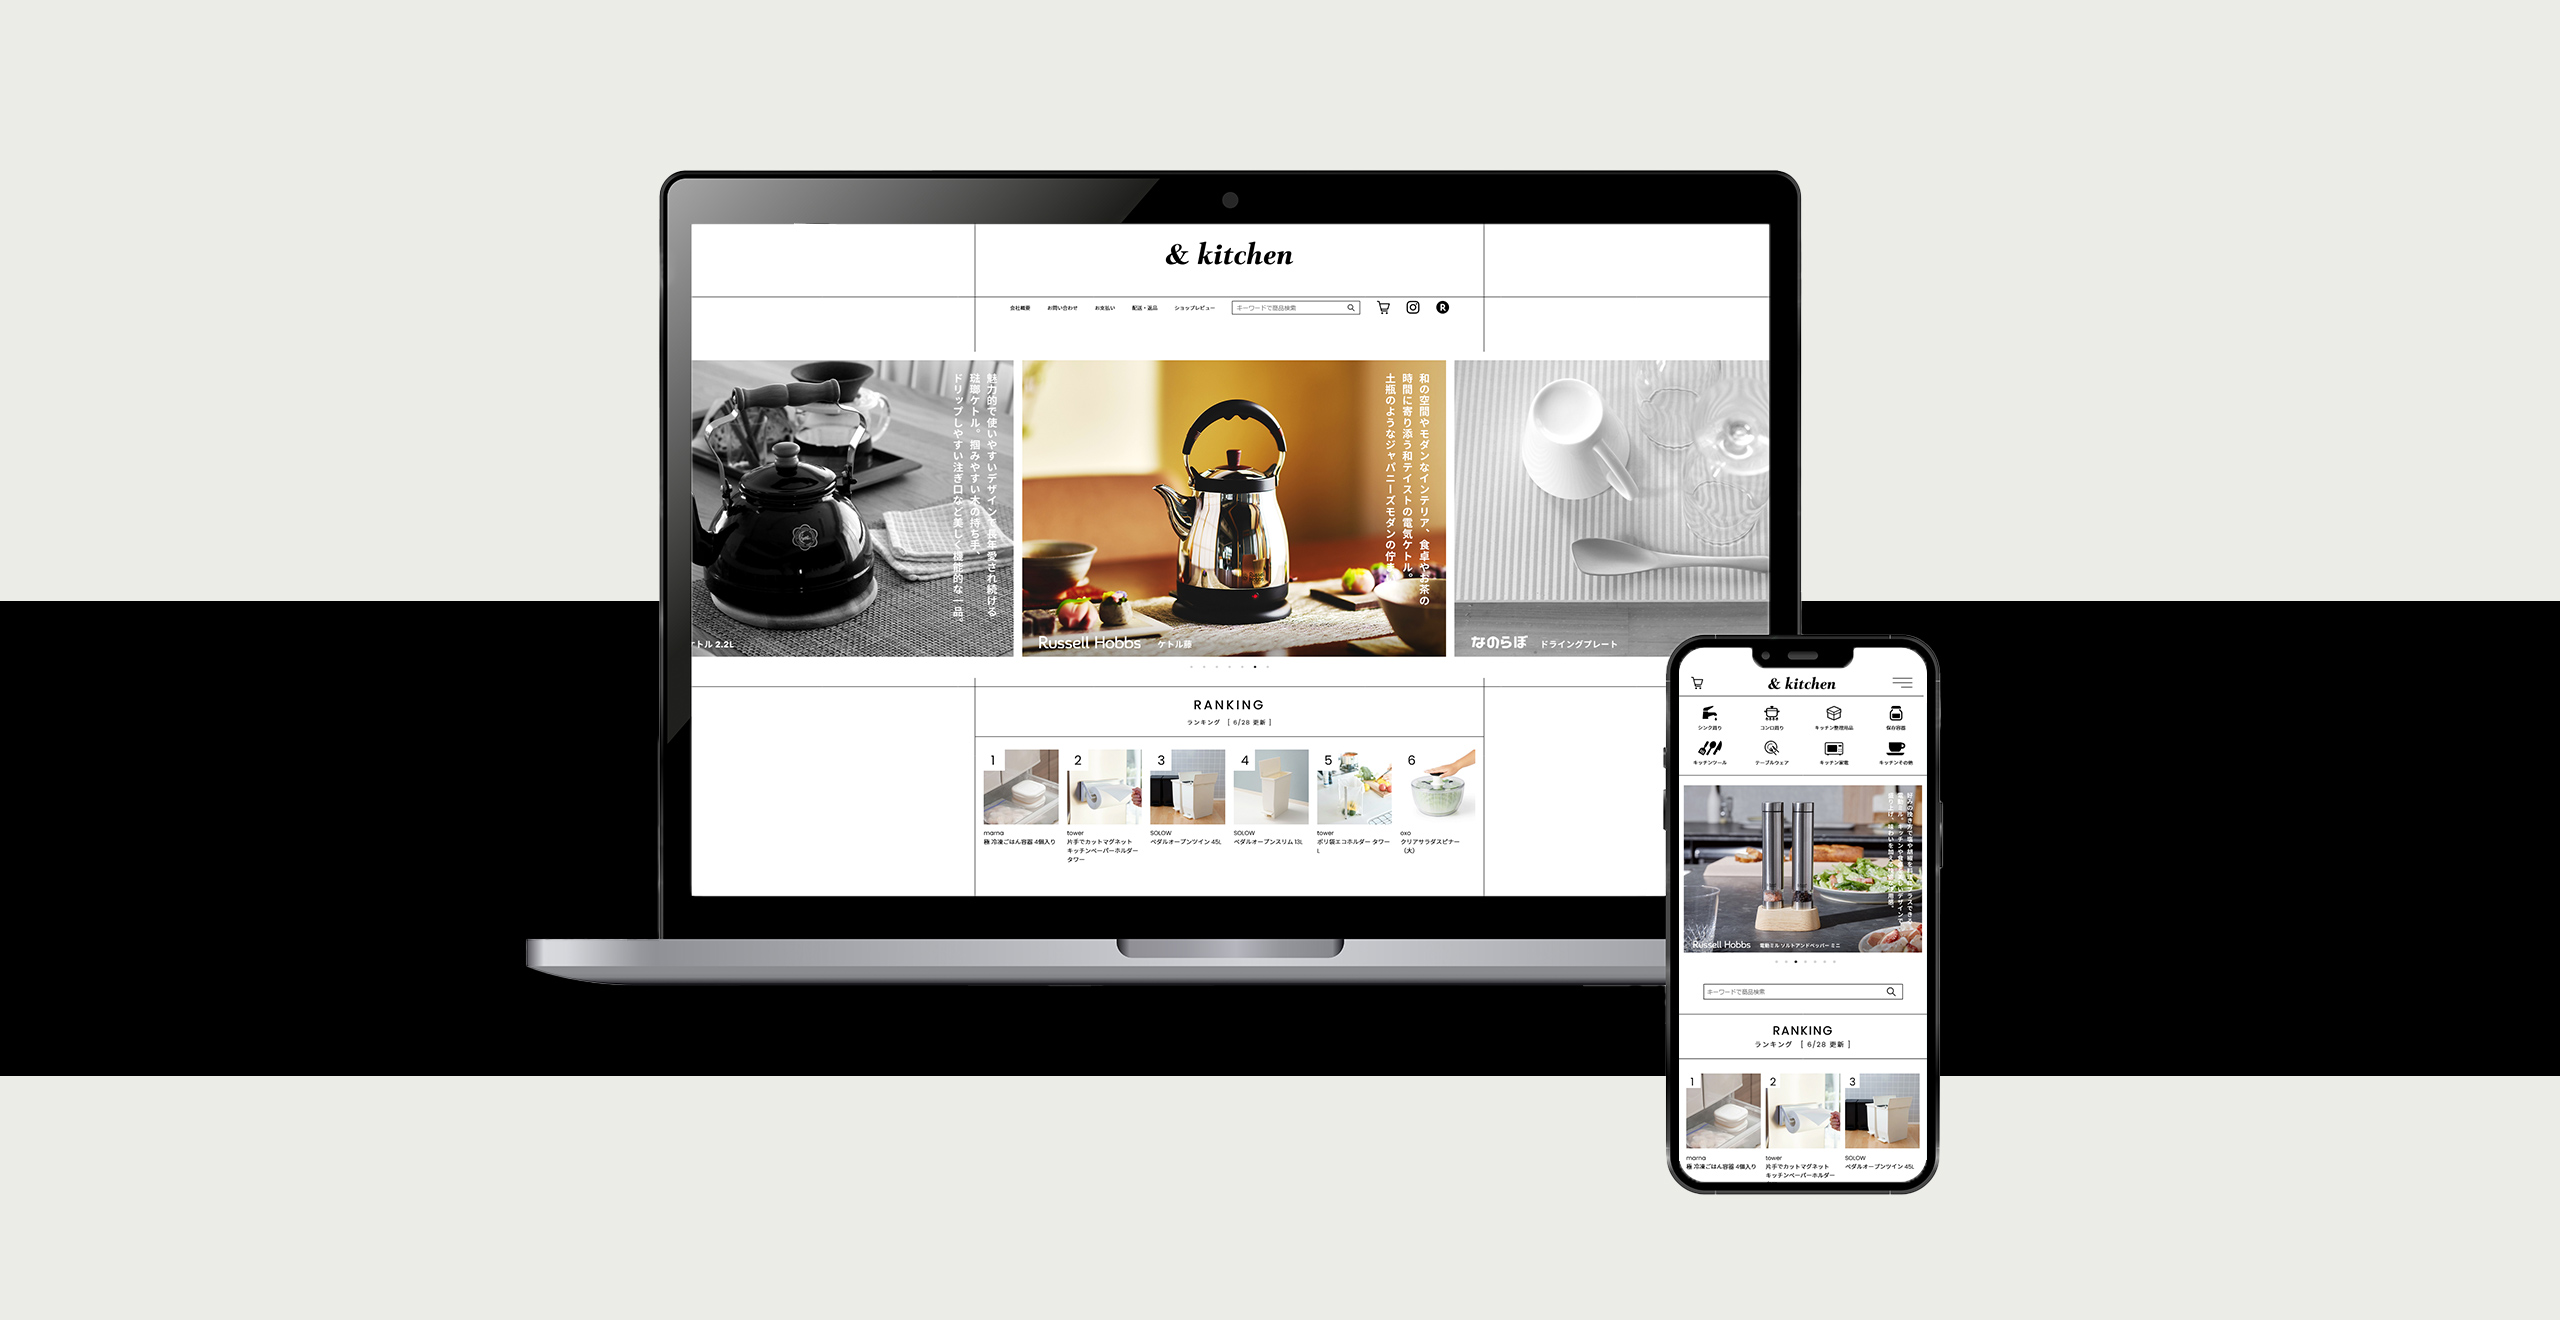
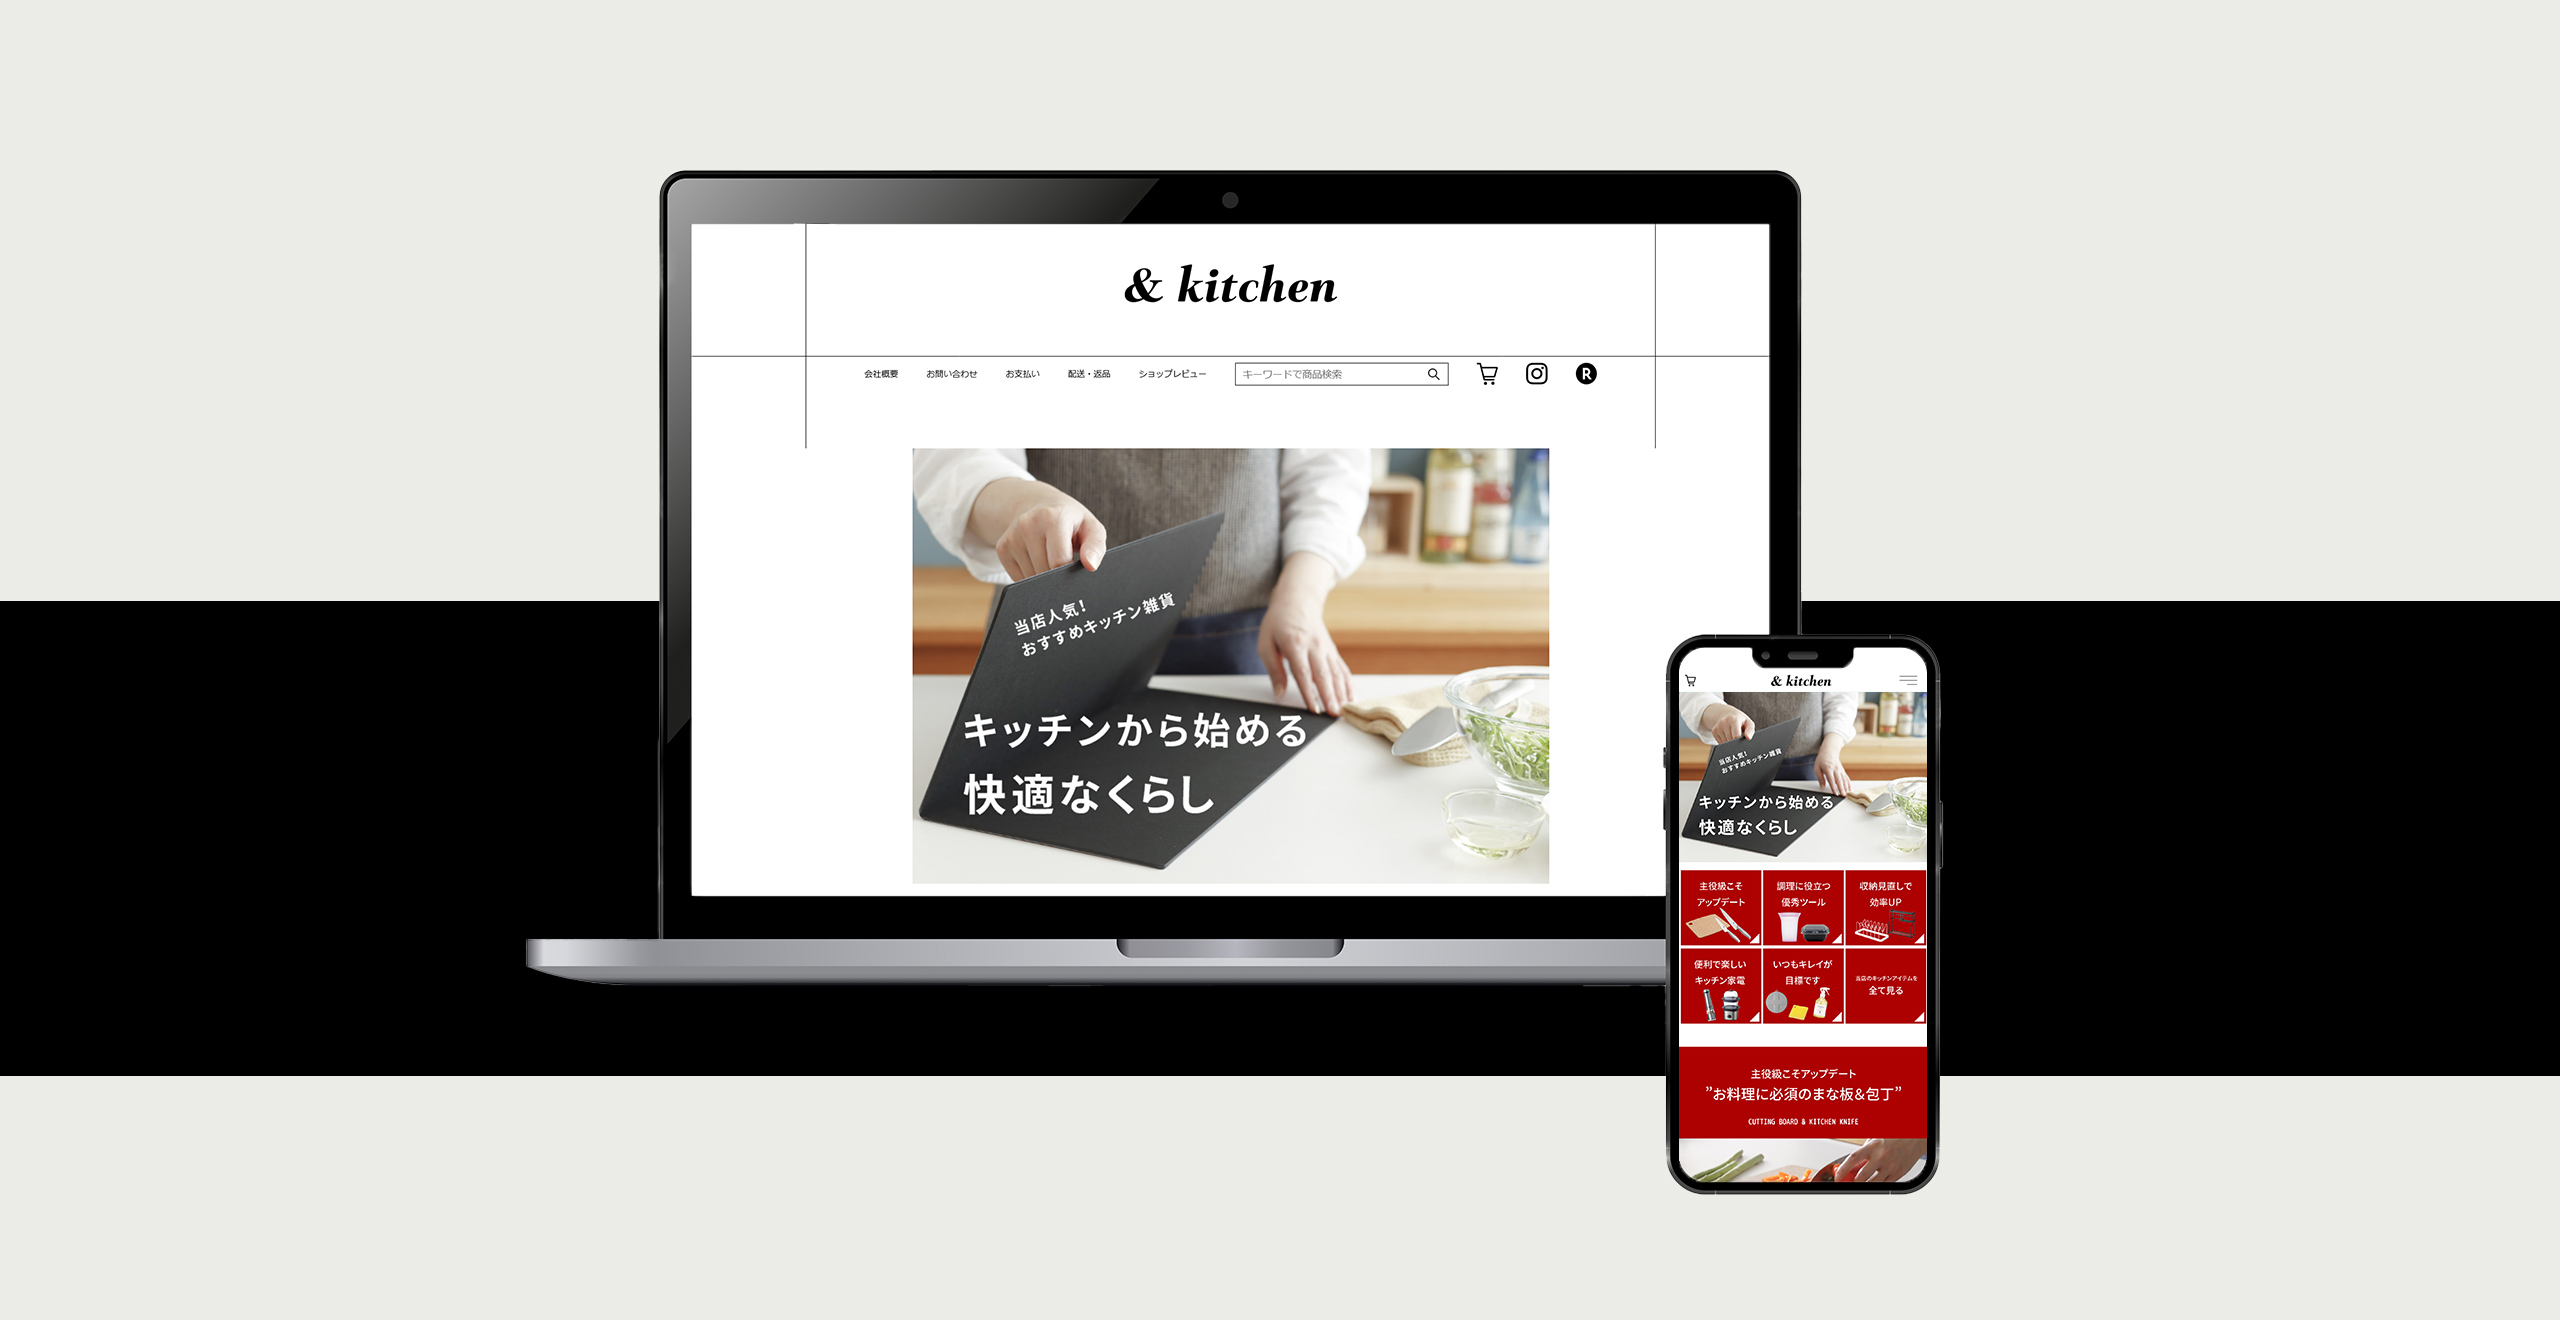
dd

Changed region(s): [[0.25, 0.1864, 0.75, 0.9008]]

diff --git a/top/index.html b/top/index.html
@@ -23,7 +23,8 @@
     <link rel="stylesheet" href="https://unpkg.com/ress/dist/ress.min.css">
 
     <!--↓動くcss-->
-    <link rel="stylesheet" type="text/css" href="http://coco-factory.jp/ugokuweb/wp-content/themes/ugokuweb/data/move02/8-1/css/reset.css">
+    <link rel="stylesheet" type="text/css"
+        href="http://coco-factory.jp/ugokuweb/wp-content/themes/ugokuweb/data/move02/8-1/css/reset.css">
     <!--↓独自css-->
     <link rel="stylesheet" href="css/style.css">
 
@@ -47,11 +48,13 @@
         <!---------- Skills ---------->
         <div id="skills wrapper">
             <div class="skills-p">
-                <h1 class="TextRandomAnime">Top Page</h1>
-                <h2>自社新店舗のトップページデザイン</h2>
+                <h1 class="TextRandomAnime">Special Feature </h1>
+                <h2>自社新店舗の特集ページデザイン・設計</h2>
                 <div class="parent">
                     <div class="child">
-                        <p class="child_p"><b>概要</b><br>20代後半主婦をメインターゲットにしたキッチン雑貨のセレクトショップ「アンドキッチン」のトップページデザインを担当。(自社運営の新店舗)<br><br><a href="https://www.rakuten.ne.jp/gold/andkitchen/" target="_blank">https://www.rakuten.ne.jp/gold/andkitchen/</a>
+                        <p class="child_p"><b>概要</b><br>自社の運営店舗「＆kitchen」の特集ページのデザイン、編集を担当。<br><br><a
+                                href="https://www.rakuten.ne.jp/gold/andkitchen/"
+                                target="_blank">https://www.rakuten.ne.jp/gold/andkitchen/</a>
                         </p>
                     </div>
                     <div class="child">
@@ -60,12 +63,13 @@
                             <b>制作環境</b><br>
                             Photoshop<br>
                             <b>担当した箇所</b><br>
-                            トップページデザイン、スライダー画像、特集ページのサムネイル画像(先輩デザイナーと共同)<br></p>
+                            特集サムネイル画像の制作、ページ内デザイン、ページ内の文章制作、新商品追加など編集業務<br>
+                        </p>
                     </div>
                 </div>
             </div>
             <div class="skills-img">
-                <img src="imgs/landhig_02-2.jpg" >
+                <img src="imgs/landhig_02-2.jpg">
             </div>
         </div>
 
@@ -75,23 +79,25 @@
             <div class="works__innner ">
                 <figure class="works__fig">
                     <img src="imgs/gole.png" alt="" width="50%">
-                    <p><b>目的</b><br>既に運営しているキッチン雑貨のセレクトショップ「kitchenroom」とは違った年齢層の顧客を増やすため、より洗練されたスタイリッシュなショップという印象付けができるようなデザインを目指した。
+                    <p><b>目的</b><br>カテゴリーごとにキッチン雑貨を集めた特集ページを制作し、自社ページ内でお客様にいろいろな商品を見比べていただけるようにする。
                     </p>
                 </figure>
 
                 <figure class="works__fig">
                     <img src="imgs/shop.png" alt="" width="50%">
-                    <p><b>コンセプト</b><br>インスタ映えするようなおしゃれでより洗練されたキッチン雑貨が見つかるセレクトショップ。</p>
+                    <p><b>コンセプト</b><br>同系統の商品を一覧で見比べることができるページ。</p>
                 </figure>
 
                 <figure class="works__fig">
                     <img src="imgs/woman.png" alt="" width="50%">
-                    <p><b>ペルソナ</b><br>34歳女性<br>会社勤め/夫と二人暮らし<br>趣味はおかし作り。おしゃれでインスタ映えするようなキッチンの雑貨を探すときに利用する。</p>
+                    <p><b>ペルソナ</b><br>40歳女性<br>
+                        会社勤め/夫、子供と三人暮らし
+                        新しく引っ越しをするに際して、キッチン、バスルーム、リビングルームの雑貨を新調したい。
+                    </p>
                 </figure>
 
-                <p>自社で運営している楽天内のショップである「くらしのもり」「kitchenroom」「bathroom」に引き続き、新店舗である「＆kitchen」が増設されるにあたり、先輩デザイナーと2人でデザインを担当。<br>
-                    より洗練されたおしゃれな暮らしを提供するセレクトショップということで、スタイリッシュでミニマルなデザインを目指しました。
-                    実際に運営されるページのトップデザインを手掛けたのはこれが初めてだったので、戸惑いつつも先輩デザイナーにたくさんの助言を頂き、納得のいく形に仕上げることができました。</p>
+                <p>自社で運営している楽天内のショップである「＆kitchen」の「FEATURE(特集ページ)」のデザイン、設計を担当。<br>「キッチンからはじめる快適なくらし」、「種類豊富な保存容器 」、「ゴミ箱にもこだわりを」などをはじめ、季節ごとに「梅雨特集」「加湿器特集」など快適な生活を支える雑貨を紹介し、お客様に自分に合ったアイテムを見比べて発見していただけるようなわかりやすいページを目指しました。
+                    </p>
             </div><!-- works__innner -->
         </div><!-- works -->
 
@@ -104,20 +110,26 @@
         <div class="nabigation">
             <nav>
                 <ui class="headerul">
-                    <li ><a href="../index.html"><img src="../img/back.png" alt="" width="80px
-                        "><p style="padding: 0;">トップページへ</p></a></li>
-                    <li ><a href="#top"><img src="../img/top.png" alt="" width="80px
-                        "><p style="padding: 0;">上へ戻る</p></a></li>
+                    <li><a href="../index.html"><img src="../img/back.png" alt="" width="80px
+                        ">
+                            <p style="padding: 0;">トップページへ</p>
+                        </a></li>
+                    <li><a href="#top"><img src="../img/top.png" alt="" width="80px
+                        ">
+                            <p style="padding: 0;">上へ戻る</p>
+                        </a></li>
                 </ui>
             </nav>
         </div>
-        
+
     </footer>
 
-    <script src="https://code.jquery.com/jquery-3.4.1.min.js" integrity="sha256-CSXorXvZcTkaix6Yvo6HppcZGetbYMGWSFlBw8HfCJo=" crossorigin="anonymous"></script>
+    <script src="https://code.jquery.com/jquery-3.4.1.min.js"
+        integrity="sha256-CSXorXvZcTkaix6Yvo6HppcZGetbYMGWSFlBw8HfCJo=" crossorigin="anonymous"></script>
     <script src="http://coco-factory.jp/ugokuweb/wp-content/themes/ugokuweb/data/move02/8-1/js/8-1.js"></script>
 
-    <script src="https://code.jquery.com/jquery-3.4.1.min.js" integrity="sha256-CSXorXvZcTkaix6Yvo6HppcZGetbYMGWSFlBw8HfCJo=" crossorigin="anonymous"></script>
+    <script src="https://code.jquery.com/jquery-3.4.1.min.js"
+        integrity="sha256-CSXorXvZcTkaix6Yvo6HppcZGetbYMGWSFlBw8HfCJo=" crossorigin="anonymous"></script>
     <script src="https://cdnjs.cloudflare.com/ajax/libs/Chart.js/2.8.0/Chart.min.js"></script>
     <script src="https://cdnjs.cloudflare.com/ajax/libs/protonet-jquery.inview/1.1.2/jquery.inview.min.js"></script>
 

diff --git a/index.html b/index.html
@@ -60,11 +60,11 @@
                     </a>
                     <table>
                         <tr>
-                            <th colspan="2">自社ECサイトトップページ</th>
+                            <th colspan="2">自社ECサイト特集ページ</th>
                         </tr>
                         <tr>
                             <td width="30%">制作した箇所</td>
-                            <td>トップページのデザイン(先輩デザインと共同)</td>
+                            <td>特集ページのデザイン・編集</td>
                         </tr>
                         <tr>
                             <td>使用ソフト</td>
@@ -72,7 +72,7 @@
                         </tr>
                         <tr>
                             <td>制作時間</td>
-                            <td>約1か月程度</td>
+                            <td>約2週間程度</td>
                         </tr>
                     </table>
                 </figure>
@@ -191,7 +191,7 @@
                 </tr>
                 <tr>
                     <td>制作時間</td>
-                    <td>約3～4日/1画像</td>
+                    <td>約5～6日/1画像</td>
                 </tr>
             </table>
         </div>
@@ -275,11 +275,6 @@
                         </div>
                     </div>
                 </div>
-                <p class="p_sime">現職の先輩に学んだ「デザインの本質は情報整理！」<br>
-                    この言葉を胸に、見た目の良さだけに留まらない、“機能する”コンテンツを目指し、
-                    ユーザーのより豊かな体験をお手伝いできるUI・UXデザイナーとして大きく成長していきたいと考えています。<br>お話の機会を頂けたら幸いです。
-
-                </p>
             </div>
             <!--/div aboutme-->
 
